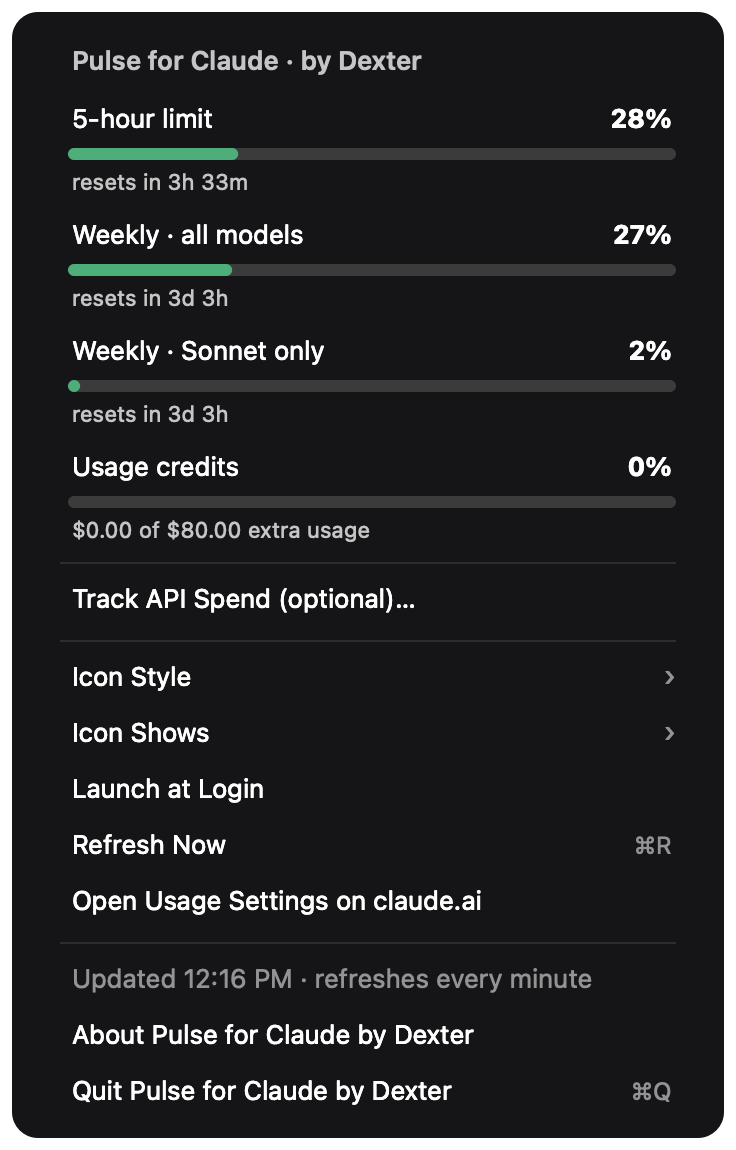
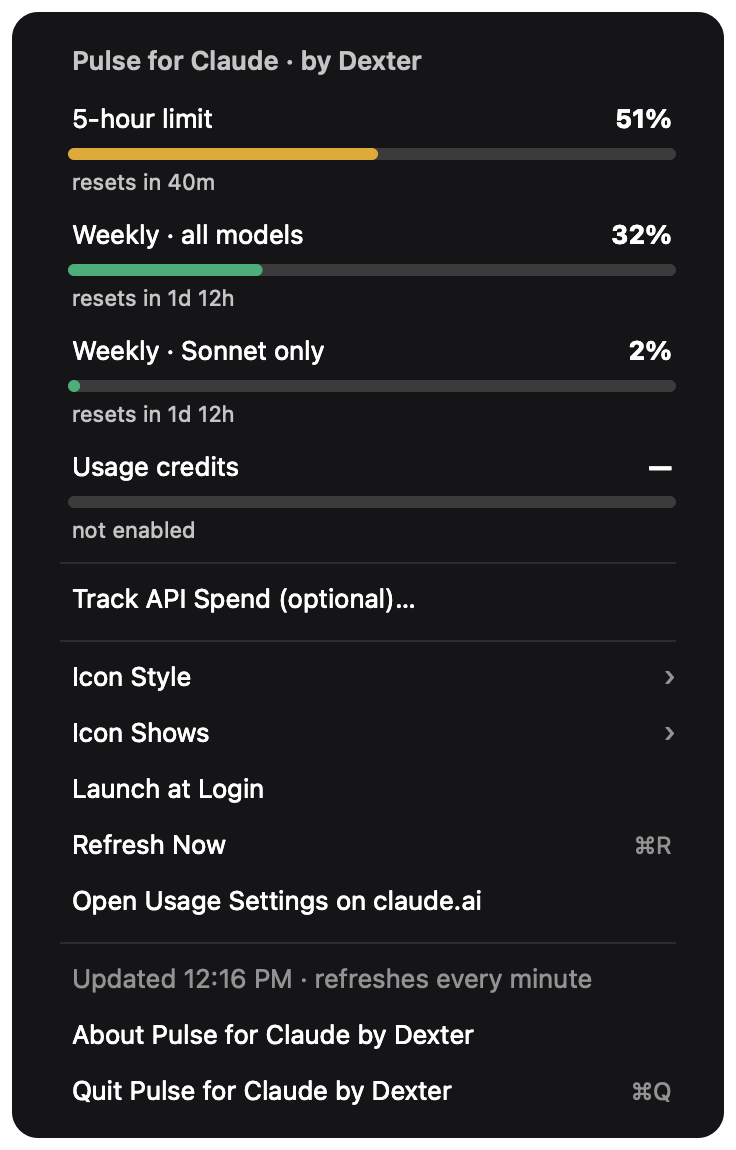
Add animated demo GIF + brew/download install paths
- ImageIO-based --gif renderer (bars fill on refresh); demo.gif in README hero.
- README: three install options (Homebrew tap, Release download, build).
- Refresh screenshot to live data + honest 'Usage credits: not enabled'.

diff --git a/Pulse.swift b/Pulse.swift
@@ -15,6 +15,8 @@
 
 import Cocoa
 import ServiceManagement
+import ImageIO
+import UniformTypeIdentifiers
 
 // MARK: - Theme ---------------------------------------------------------------
 
@@ -492,15 +494,19 @@ final class PreviewContainer: NSView {
     }
 }
 
-func renderPreview(to path: String) {
-    PREVIEW = true
-    let u = Net.fetchUsage() ?? Usage(
-        five_hour: Quota(utilization: 45, resets_at: nil),
-        seven_day: Quota(utilization: 17, resets_at: nil),
+func sampleUsage() -> Usage {
+    Net.fetchUsage() ?? Usage(
+        five_hour: Quota(utilization: 40, resets_at: nil),
+        seven_day: Quota(utilization: 29, resets_at: nil),
         seven_day_opus: nil,
-        seven_day_sonnet: Quota(utilization: 0, resets_at: nil),
-        extra_usage: Extra(is_enabled: false, used_credits: 0, monthly_limit: 80, currency: "USD", utilization: 0))
+        seven_day_sonnet: Quota(utilization: 2, resets_at: nil),
+        extra_usage: Extra(is_enabled: false, used_credits: nil, monthly_limit: nil, currency: nil, utilization: nil))
+}
 
+// Build the drop-down as an offscreen view. `fill` (0…1) scales the bars and
+// percentages so the GIF can animate them filling in on a refresh.
+func buildDropdown(_ u: Usage, fill: Double) -> PreviewContainer {
+    PREVIEW = true
     let pad: CGFloat = 14
     let W = ROW_W + pad*2
     let container = PreviewContainer(frame: NSRect(x: 0, y: 0, width: W, height: 900))
@@ -528,12 +534,16 @@ func renderPreview(to path: String) {
         }
         y += 28
     }
+    func scaled(_ q: Quota?) -> Int? { pctOf(q).map { Int((Double($0) * fill).rounded()) } }
+    func reset(_ q: Quota?, _ fallback: String) -> String {
+        let r = Clock.resetsIn(q?.resets_at); return r.isEmpty ? fallback : r
+    }
 
     place(HeaderView(), h: 30)
-    place(QuotaRowView(title: "5-hour limit", pct: pctOf(u.five_hour), sub: "resets in 3h 33m"), h: 58)
-    place(QuotaRowView(title: "Weekly · all models", pct: pctOf(u.seven_day), sub: "resets in 3d 3h"), h: 58)
-    place(QuotaRowView(title: "Weekly · Sonnet only", pct: pctOf(u.seven_day_sonnet), sub: "resets in 3d 3h"), h: 58)
-    place(QuotaRowView(title: "Usage credits", pct: 0, sub: "$0.00 of $80.00 extra usage"), h: 58)
+    place(QuotaRowView(title: "5-hour limit", pct: scaled(u.five_hour), sub: reset(u.five_hour, "resets in 3h 33m")), h: 58)
+    place(QuotaRowView(title: "Weekly · all models", pct: scaled(u.seven_day), sub: reset(u.seven_day, "resets in 3d 3h")), h: 58)
+    place(QuotaRowView(title: "Weekly · Sonnet only", pct: scaled(u.seven_day_sonnet), sub: reset(u.seven_day_sonnet, "resets in 3d 3h")), h: 58)
+    place(QuotaRowView(title: "Usage credits", pct: nil, sub: "not enabled"), h: 58)
     sep()
     textRow("Track API Spend (optional)…")
     sep()
@@ -550,13 +560,47 @@ func renderPreview(to path: String) {
 
     container.setFrameSize(NSSize(width: W, height: y))
     container.display()
+    return container
+}
 
+func cgFrame(_ container: PreviewContainer) -> CGImage? {
+    guard let rep = container.bitmapImageRepForCachingDisplay(in: container.bounds) else { return nil }
+    container.cacheDisplay(in: container.bounds, to: rep)
+    return rep.cgImage
+}
+
+func renderPreview(to path: String) {
+    let container = buildDropdown(sampleUsage(), fill: 1.0)
     guard let rep = container.bitmapImageRepForCachingDisplay(in: container.bounds) else { exit(1) }
     container.cacheDisplay(in: container.bounds, to: rep)
     if let png = rep.representation(using: .png, properties: [:]) {
         try? png.write(to: URL(fileURLWithPath: path))
         print("wrote \(path)")
     }
+}
+
+// Animated GIF — the bars fill in (ease-out) as on a refresh, then hold.
+func renderGif(to path: String) {
+    let u = sampleUsage()
+    var frames: [CGImage] = []
+    let steps = 20
+    for i in 0...steps {
+        let t = Double(i) / Double(steps)
+        let eased = 1 - pow(1 - t, 3)
+        if let cg = cgFrame(buildDropdown(u, fill: eased)) { frames.append(cg) }
+    }
+    guard !frames.isEmpty,
+          let dest = CGImageDestinationCreateWithURL(URL(fileURLWithPath: path) as CFURL,
+                                                      UTType.gif.identifier as CFString, frames.count, nil)
+    else { exit(1) }
+    CGImageDestinationSetProperties(dest,
+        [kCGImagePropertyGIFDictionary as String: [kCGImagePropertyGIFLoopCount as String: 0]] as CFDictionary)
+    for (idx, cg) in frames.enumerated() {
+        let delay = (idx == frames.count - 1) ? 1.8 : 0.05   // hold the full frame before looping
+        CGImageDestinationAddImage(dest, cg,
+            [kCGImagePropertyGIFDictionary as String: [kCGImagePropertyGIFUnclampedDelayTime as String: delay]] as CFDictionary)
+    }
+    if CGImageDestinationFinalize(dest) { print("wrote \(path) (\(frames.count) frames)") } else { exit(1) }
 }
 
 // MARK: - Entry ---------------------------------------------------------------
@@ -567,6 +611,12 @@ if let i = args.firstIndex(of: "--shot") {
     let app = NSApplication.shared
     _ = app // ensure AppKit is initialized for offscreen drawing
     renderPreview(to: path)
+    exit(0)
+}
+if let i = args.firstIndex(of: "--gif") {
+    let path = (i+1 < args.count) ? args[i+1] : "demo.gif"
+    _ = NSApplication.shared
+    renderGif(to: path)
     exit(0)
 }
 

diff --git a/README.md b/README.md
@@ -4,10 +4,10 @@ A tiny, native **macOS menu-bar app** that keeps your Claude usage limits one
 glance away — the same numbers `/usage` shows inside Claude Code, live in your
 menu bar and refreshed every minute.
 
-You don't download a binary. You **build it yourself** in one command — `swiftc`
-turns a single Swift file into a real `.app`. Nothing is shipped but source.
+Install with `brew`, download the prebuilt app, or **build it yourself** in one
+command — `swiftc` turns a single Swift file into a real `.app`.
 
-![Pulse for Claude by Dexter](screenshot.png)
+![Pulse for Claude by Dexter](demo.gif)
 
 ---
 
@@ -24,29 +24,41 @@ Click it for the full **drop-down**:
 | **Weekly · all models** | The 7-day quota across all models |
 | **Weekly · Opus only** | 7-day Opus quota — *shown only if your plan has one* |
 | **Weekly · Sonnet only** | 7-day Sonnet quota |
-| **Usage credits** | Pay-as-you-go extra usage, e.g. `$0.00 of $80.00 extra usage` |
+| **Usage credits** | Pay-as-you-go extra usage when enabled (real `$used of $limit`); otherwise `not enabled` |
 
 Bars are colour-coded: **green** under 50%, **amber** 50–79%, **red** 80%+.
 
 ---
 
-## Install (build it yourself)
+## Install
 
-**Requirements:** a Mac with the Swift toolchain. If you have Xcode you're set;
-otherwise run once:
+### Option A — Homebrew (easiest)
 
 ```bash
-xcode-select --install
+brew install aeron7/tap/pulse-for-claude
 ```
 
-Then, from this folder:
+### Option B — Download the app
+
+Grab the latest zip from [**Releases**](https://github.com/aeron7/pulse-for-claude/releases),
+unzip it, and move `Pulse.app` to `/Applications`.
+
+### Option C — Build it yourself
+
+Needs the Swift toolchain (`xcode-select --install` if you don't have Xcode):
 
 ```bash
+git clone https://github.com/aeron7/pulse-for-claude.git
+cd pulse-for-claude
 ./build.command          # or double-click build.command in Finder
 ```
 
-That compiles `Pulse.swift` → `Pulse.app`, ad-hoc code-signs it, and launches
-it. Look at the **top-right of your menu bar**.
+That compiles `Pulse.swift` → `Pulse.app`, ad-hoc code-signs it, and launches it.
+
+> **First launch (Options A & B):** the app is ad-hoc signed, not notarized, so
+> macOS Gatekeeper warns the first time. Right-click `Pulse.app` → **Open**, or
+> run `xattr -dr com.apple.quarantine /Applications/Pulse.app`. Then look at the
+> **top-right of your menu bar**.
 
 - **Keep it around:** drag `Pulse.app` into `/Applications`.
 - **Rebuild after editing the source:** run `./build.command` again.